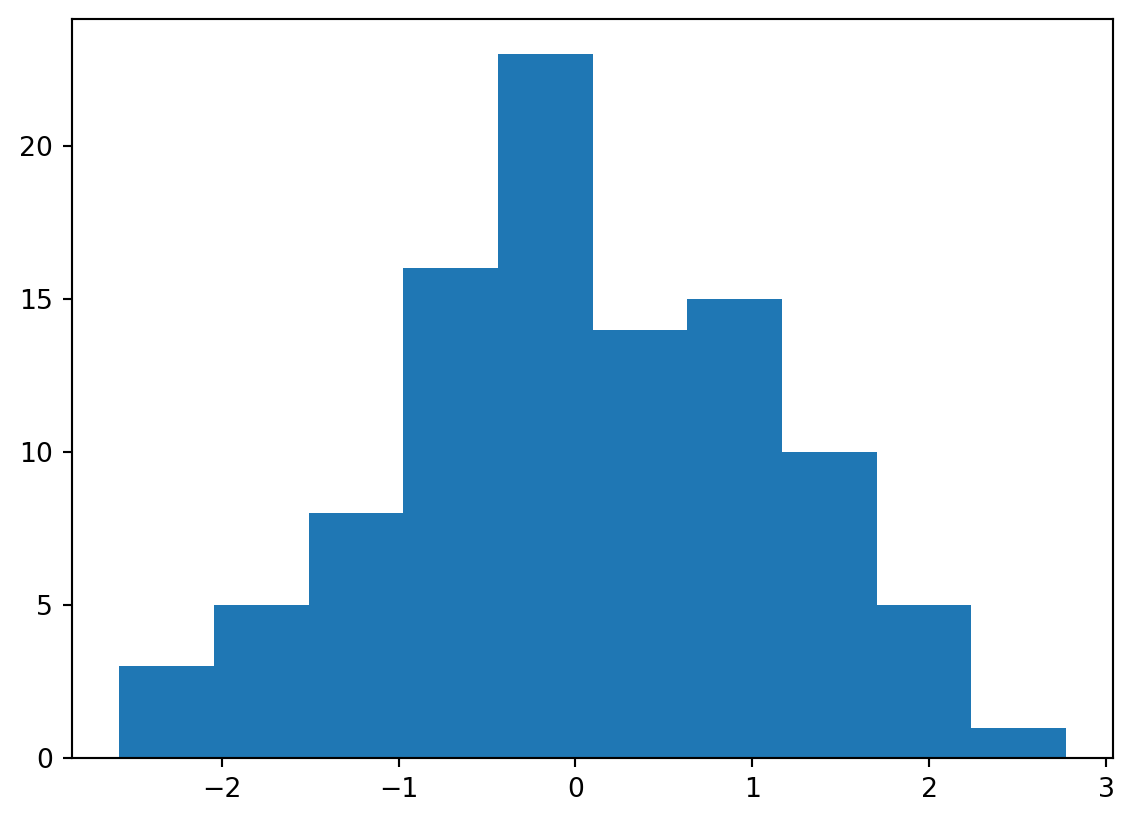
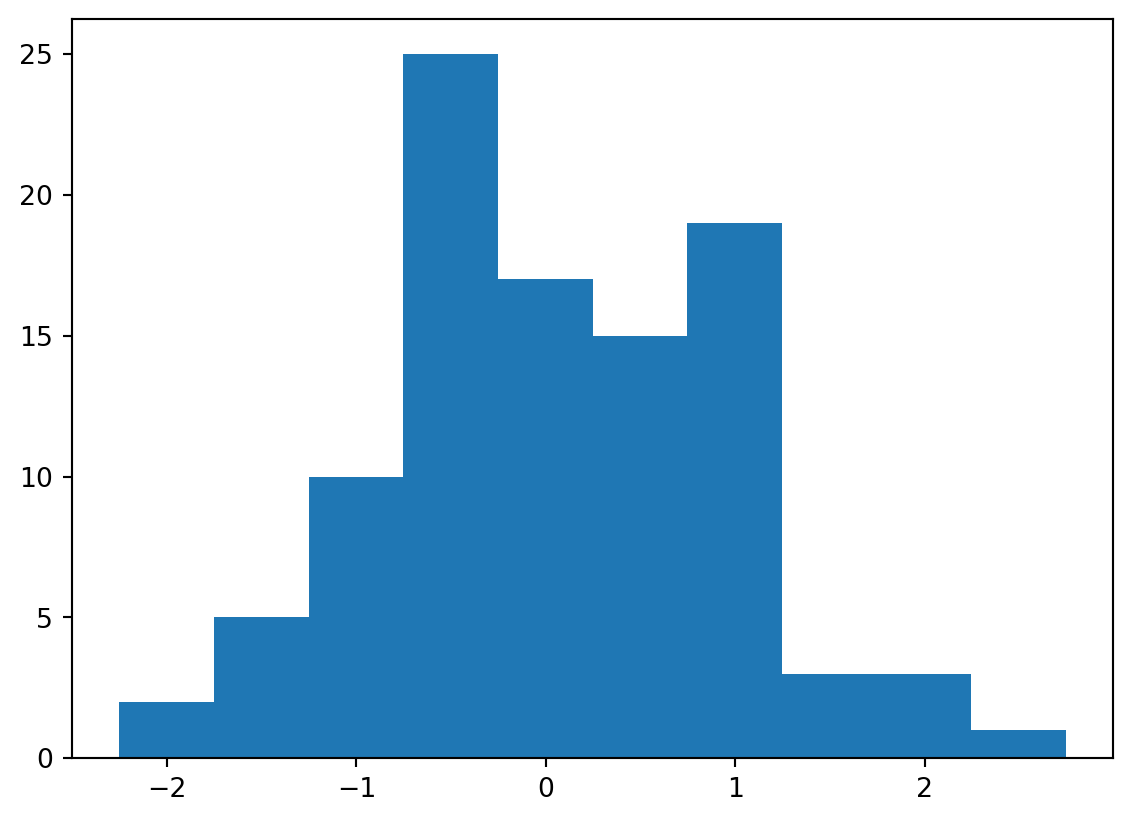
Built site for gh-pages

diff --git a/units/unit1.html b/units/unit1.html
@@ -2,7 +2,7 @@
 <html xmlns="http://www.w3.org/1999/xhtml" lang="en" xml:lang="en"><head>
 
 <meta charset="utf-8">
-<meta name="generator" content="quarto-1.5.54">
+<meta name="generator" content="quarto-1.5.55">
 
 <meta name="viewport" content="width=device-width, initial-scale=1.0, user-scalable=yes">
 
@@ -292,7 +292,7 @@ window.Quarto = {
 <p>This is an example of using qmd as the source document.</p>
 <section id="evaluated-python-code-chunk-with-a-plot" class="level2">
 <h2 class="anchored" data-anchor-id="evaluated-python-code-chunk-with-a-plot">Evaluated Python code chunk, with a plot</h2>
-<div id="5ef1c33f" class="cell" data-execution_count="1">
+<div id="e40ac0bb" class="cell" data-execution_count="1">
 <details open="" class="code-fold">
 <summary>Code</summary>
 <div class="sourceCode cell-code" id="cb1"><pre class="sourceCode python code-with-copy"><code class="sourceCode python"><span id="cb1-1"><a href="#cb1-1" aria-hidden="true" tabindex="-1"></a><span class="im">import</span> numpy <span class="im">as</span> np</span>
@@ -305,12 +305,12 @@ window.Quarto = {
 <div class="cell-output cell-output-display">
 <div>
 <figure class="figure">
-<p><img src="unit1_files/figure-html/cell-2-output-1.png" width="566" height="411" class="figure-img"></p>
+<p><img src="unit1_files/figure-html/cell-2-output-1.png" width="579" height="411" class="figure-img"></p>
 </figure>
 </div>
 </div>
 <div class="cell-output cell-output-display" data-execution_count="1">
-<pre><code>0.08112724201694009</code></pre>
+<pre><code>0.09862652216944792</code></pre>
 </div>
 </div>
 </section>
@@ -363,7 +363,7 @@ Tip with Title
 </div>
 <div id="tabset-1-2" class="tab-pane" role="tabpanel" aria-labelledby="tabset-1-2-tab">
 <p>This code is executed.</p>
-<div id="16482f35" class="cell" data-execution_count="2">
+<div id="b1786a31" class="cell" data-execution_count="2">
 <details open="" class="code-fold">
 <summary>Code</summary>
 <div class="sourceCode cell-code" id="cb4"><pre class="sourceCode python code-with-copy"><code class="sourceCode python"><span id="cb4-1"><a href="#cb4-1" aria-hidden="true" tabindex="-1"></a><span class="kw">def</span> fizz_buzz(num):</span>

diff --git a/index.html b/index.html
@@ -2,12 +2,12 @@
 <html xmlns="http://www.w3.org/1999/xhtml" lang="en" xml:lang="en"><head>
 
 <meta charset="utf-8">
-<meta name="generator" content="quarto-1.5.54">
+<meta name="generator" content="quarto-1.5.55">
 
 <meta name="viewport" content="width=device-width, initial-scale=1.0, user-scalable=yes">
 
 
-<title>Statistics 154: Modern Statistical Prediction and Machine Learning</title>
+<title>Statistics 154/254: Modern Statistical Prediction and Machine Learning</title>
 <style>
 code{white-space: pre-wrap;}
 span.smallcaps{font-variant: small-caps;}
@@ -292,7 +292,7 @@ window.Quarto = {
 
 <header id="title-block-header" class="quarto-title-block default">
 <div class="quarto-title">
-<h1 class="title">Statistics 154: Modern Statistical Prediction and Machine Learning</h1>
+<h1 class="title">Statistics 154/254: Modern Statistical Prediction and Machine Learning</h1>
 <p class="subtitle lead">UC Berkeley, Fall 2024</p>
 </div>
 
@@ -323,17 +323,17 @@ No matching items
 </div>
 </div>
 <p>[UNDER CONSTRUCTION]</p>
-<div class="callout callout-style-default callout-note callout-titled" title="Welcome to Week 1 of Stat 154">
+<div class="callout callout-style-default callout-note callout-titled" title="Welcome to Week 1 of Stat 154/254">
 <div class="callout-header d-flex align-content-center">
 <div class="callout-icon-container">
 <i class="callout-icon"></i>
 </div>
 <div class="callout-title-container flex-fill">
-Welcome to Week 1 of Stat 154
+Welcome to Week 1 of Stat 154/254
 </div>
 </div>
 <div class="callout-body-container callout-body">
-
+<p>First class: Thursday, Aug 29, 2024.</p>
 </div>
 </div>
 <div class="callout callout-style-default callout-note callout-titled" title="Welcome to Week 2">

diff --git a/units/unit3.html b/units/unit3.html
@@ -2,7 +2,7 @@
 <html xmlns="http://www.w3.org/1999/xhtml" lang="en" xml:lang="en"><head>
 
 <meta charset="utf-8">
-<meta name="generator" content="quarto-1.5.54">
+<meta name="generator" content="quarto-1.5.55">
 
 <meta name="viewport" content="width=device-width, initial-scale=1.0, user-scalable=yes">
 
@@ -294,7 +294,7 @@ $$
 <p>This is an example of using qmd as the source document with pdf as one target. I’ve taken out the qmd stuff that doesn’t seem to render to pdf.</p>
 <section id="evaluated-python-code-chunk-with-a-plot" class="level2">
 <h2 class="anchored" data-anchor-id="evaluated-python-code-chunk-with-a-plot">Evaluated Python code chunk, with a plot</h2>
-<div id="515dc155" class="cell" data-execution_count="1">
+<div id="a4829b30" class="cell" data-execution_count="1">
 <details open="" class="code-fold">
 <summary>Code</summary>
 <div class="sourceCode cell-code" id="cb1"><pre class="sourceCode python code-with-copy"><code class="sourceCode python"><span id="cb1-1"><a href="#cb1-1" aria-hidden="true" tabindex="-1"></a><span class="im">import</span> numpy <span class="im">as</span> np</span>
@@ -307,12 +307,12 @@ $$
 <div class="cell-output cell-output-display">
 <div>
 <figure class="figure">
-<p><img src="unit3_files/figure-html/cell-2-output-1.png" width="567" height="411" class="figure-img"></p>
+<p><img src="unit3_files/figure-html/cell-2-output-1.png" width="566" height="411" class="figure-img"></p>
 </figure>
 </div>
 </div>
 <div class="cell-output cell-output-display" data-execution_count="1">
-<pre><code>0.05118106700119403</code></pre>
+<pre><code>0.04715118501340282</code></pre>
 </div>
 </div>
 </section>

diff --git a/calendar.html b/calendar.html
@@ -2,7 +2,7 @@
 <html xmlns="http://www.w3.org/1999/xhtml" lang="en" xml:lang="en"><head>
 
 <meta charset="utf-8">
-<meta name="generator" content="quarto-1.5.54">
+<meta name="generator" content="quarto-1.5.55">
 
 <meta name="viewport" content="width=device-width, initial-scale=1.0, user-scalable=yes">
 

diff --git a/data.html b/data.html
@@ -2,7 +2,7 @@
 <html xmlns="http://www.w3.org/1999/xhtml" lang="en" xml:lang="en"><head>
 
 <meta charset="utf-8">
-<meta name="generator" content="quarto-1.5.54">
+<meta name="generator" content="quarto-1.5.55">
 
 <meta name="viewport" content="width=device-width, initial-scale=1.0, user-scalable=yes">
 

diff --git a/license.html b/license.html
@@ -2,7 +2,7 @@
 <html xmlns="http://www.w3.org/1999/xhtml" lang="en" xml:lang="en"><head>
 
 <meta charset="utf-8">
-<meta name="generator" content="quarto-1.5.54">
+<meta name="generator" content="quarto-1.5.55">
 
 <meta name="viewport" content="width=device-width, initial-scale=1.0, user-scalable=yes">
 

diff --git a/staff.html b/staff.html
@@ -2,7 +2,7 @@
 <html xmlns="http://www.w3.org/1999/xhtml" lang="en" xml:lang="en"><head>
 
 <meta charset="utf-8">
-<meta name="generator" content="quarto-1.5.54">
+<meta name="generator" content="quarto-1.5.55">
 
 <meta name="viewport" content="width=device-width, initial-scale=1.0, user-scalable=yes">
 

diff --git a/syllabus.html b/syllabus.html
@@ -2,7 +2,7 @@
 <html xmlns="http://www.w3.org/1999/xhtml" lang="en" xml:lang="en"><head>
 
 <meta charset="utf-8">
-<meta name="generator" content="quarto-1.5.54">
+<meta name="generator" content="quarto-1.5.55">
 
 <meta name="viewport" content="width=device-width, initial-scale=1.0, user-scalable=yes">
 

diff --git a/units/macros.html b/units/macros.html
@@ -2,7 +2,7 @@
 <html xmlns="http://www.w3.org/1999/xhtml" lang="en" xml:lang="en"><head>
 
 <meta charset="utf-8">
-<meta name="generator" content="quarto-1.5.54">
+<meta name="generator" content="quarto-1.5.55">
 
 <meta name="viewport" content="width=device-width, initial-scale=1.0, user-scalable=yes">
 

diff --git a/units/unit2.html b/units/unit2.html
@@ -2,7 +2,7 @@
 <html xmlns="http://www.w3.org/1999/xhtml" lang="en" xml:lang="en"><head>
 
 <meta charset="utf-8">
-<meta name="generator" content="quarto-1.5.54">
+<meta name="generator" content="quarto-1.5.55">
 
 <meta name="viewport" content="width=device-width, initial-scale=1.0, user-scalable=yes">
 
